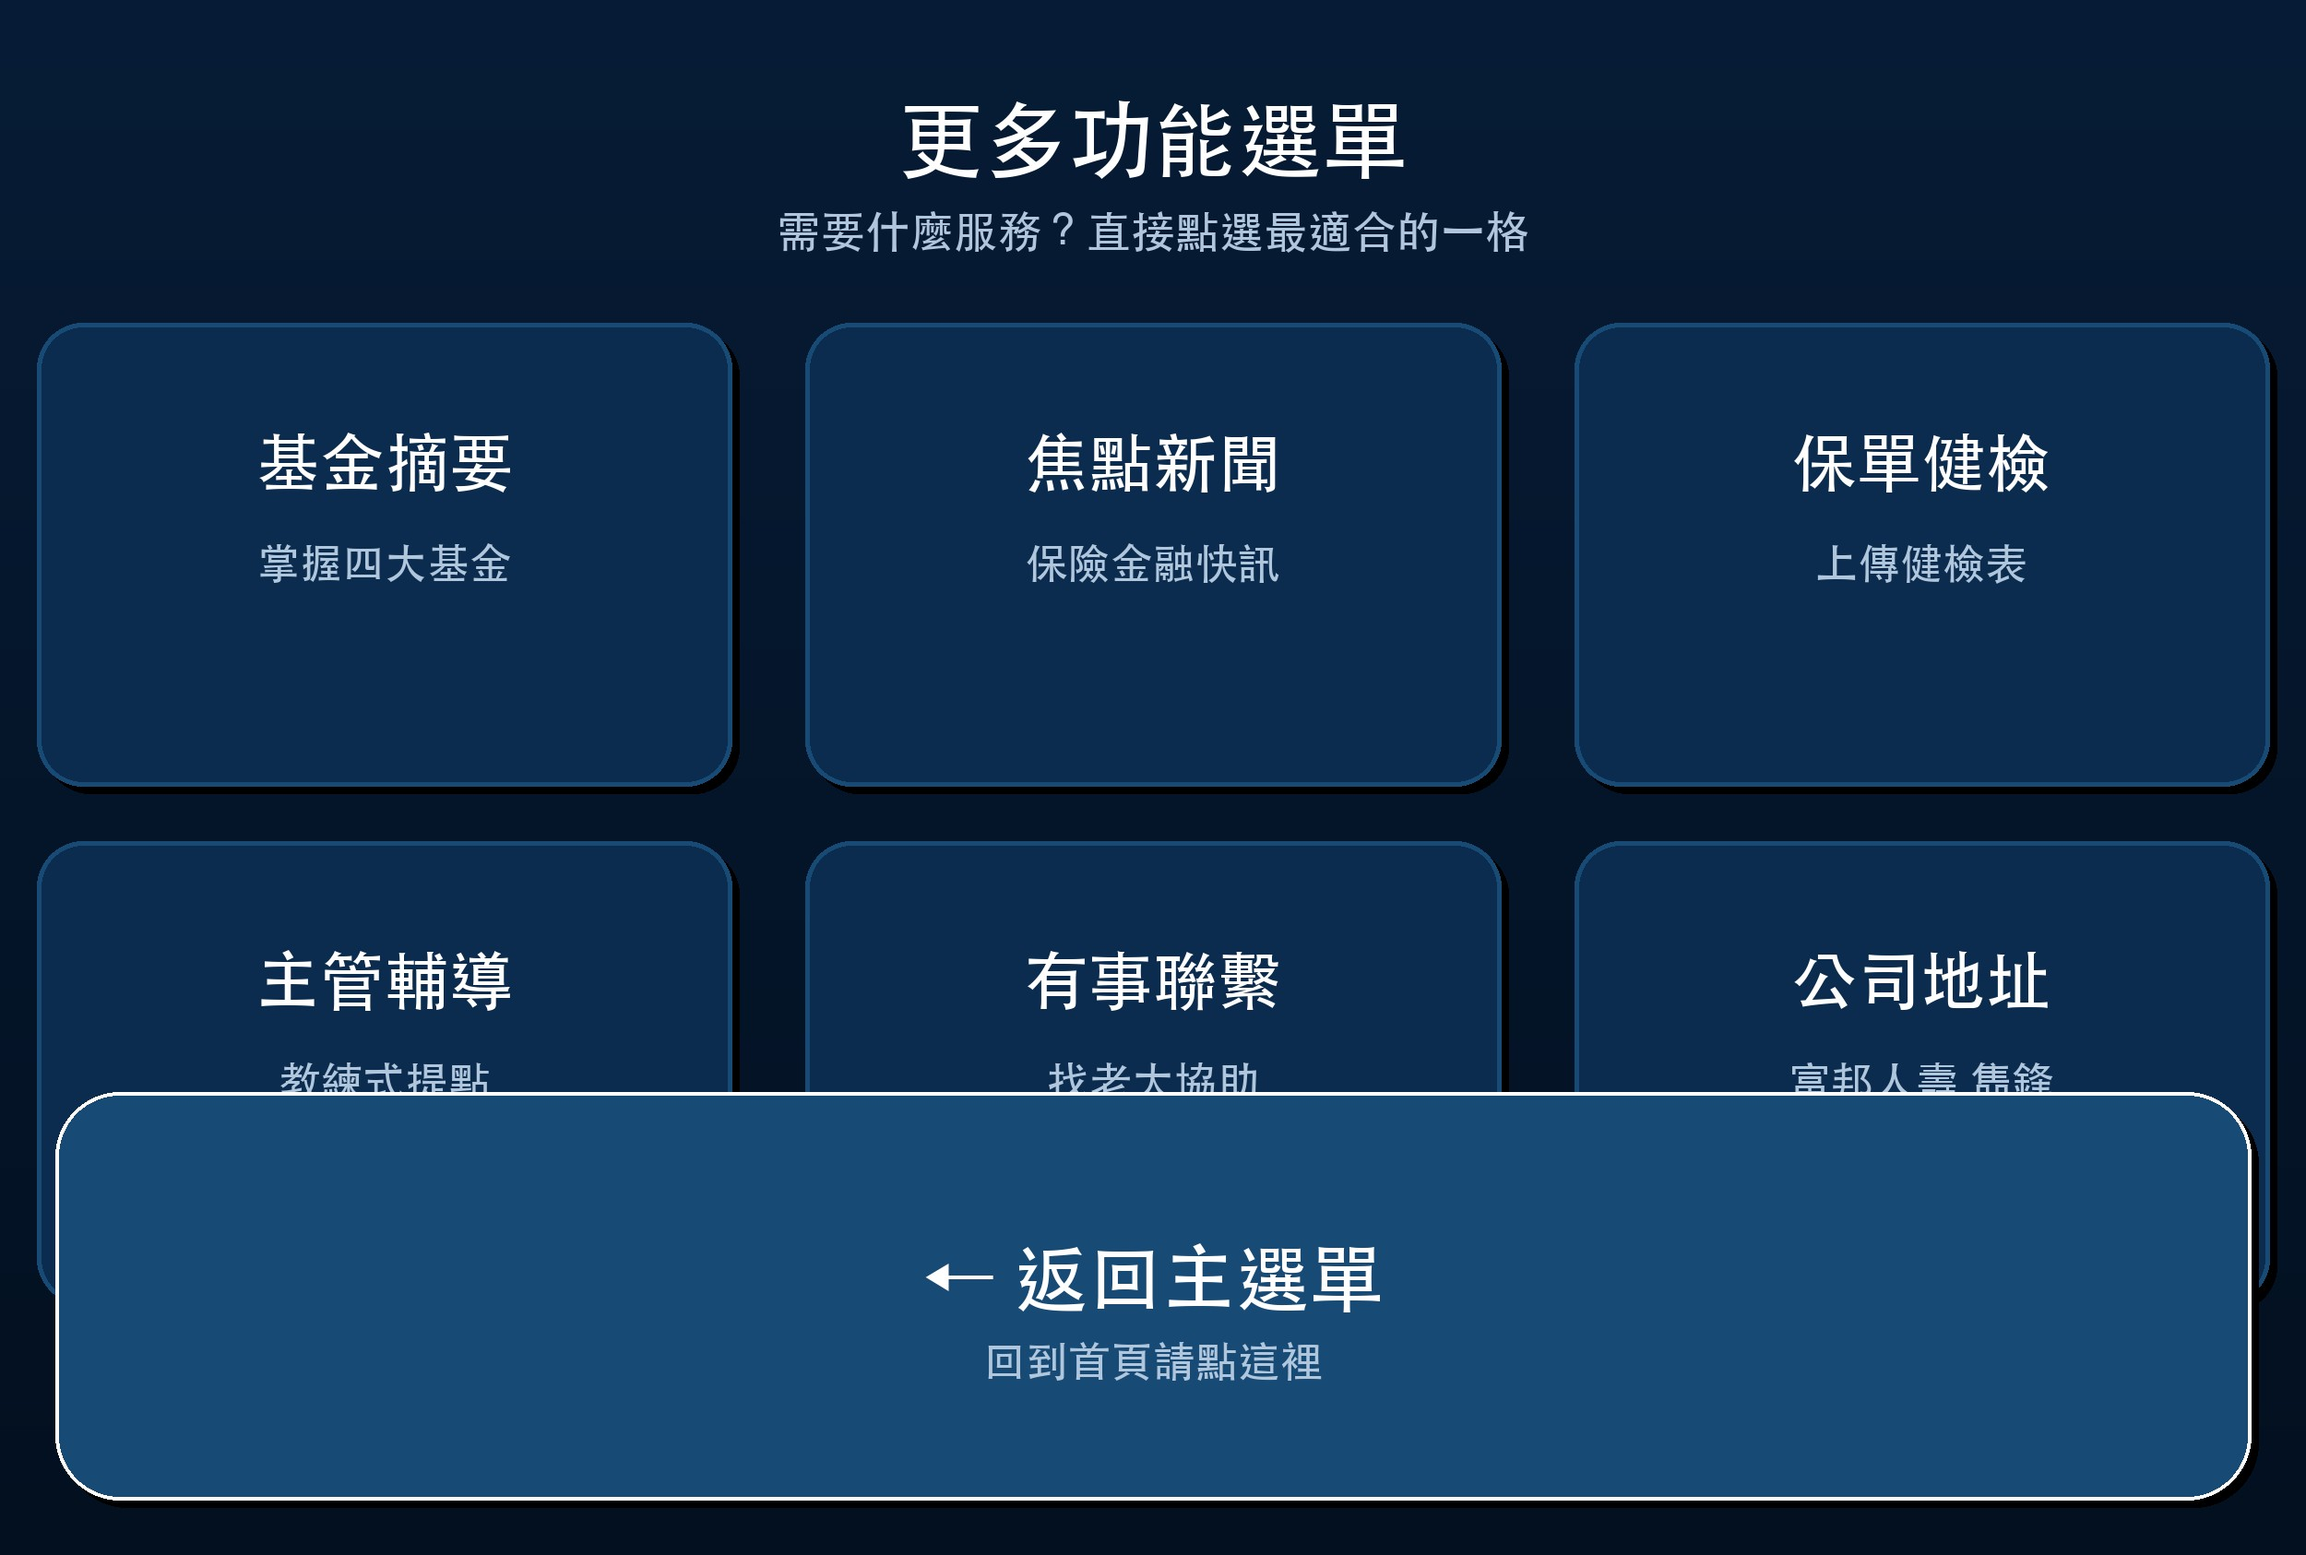
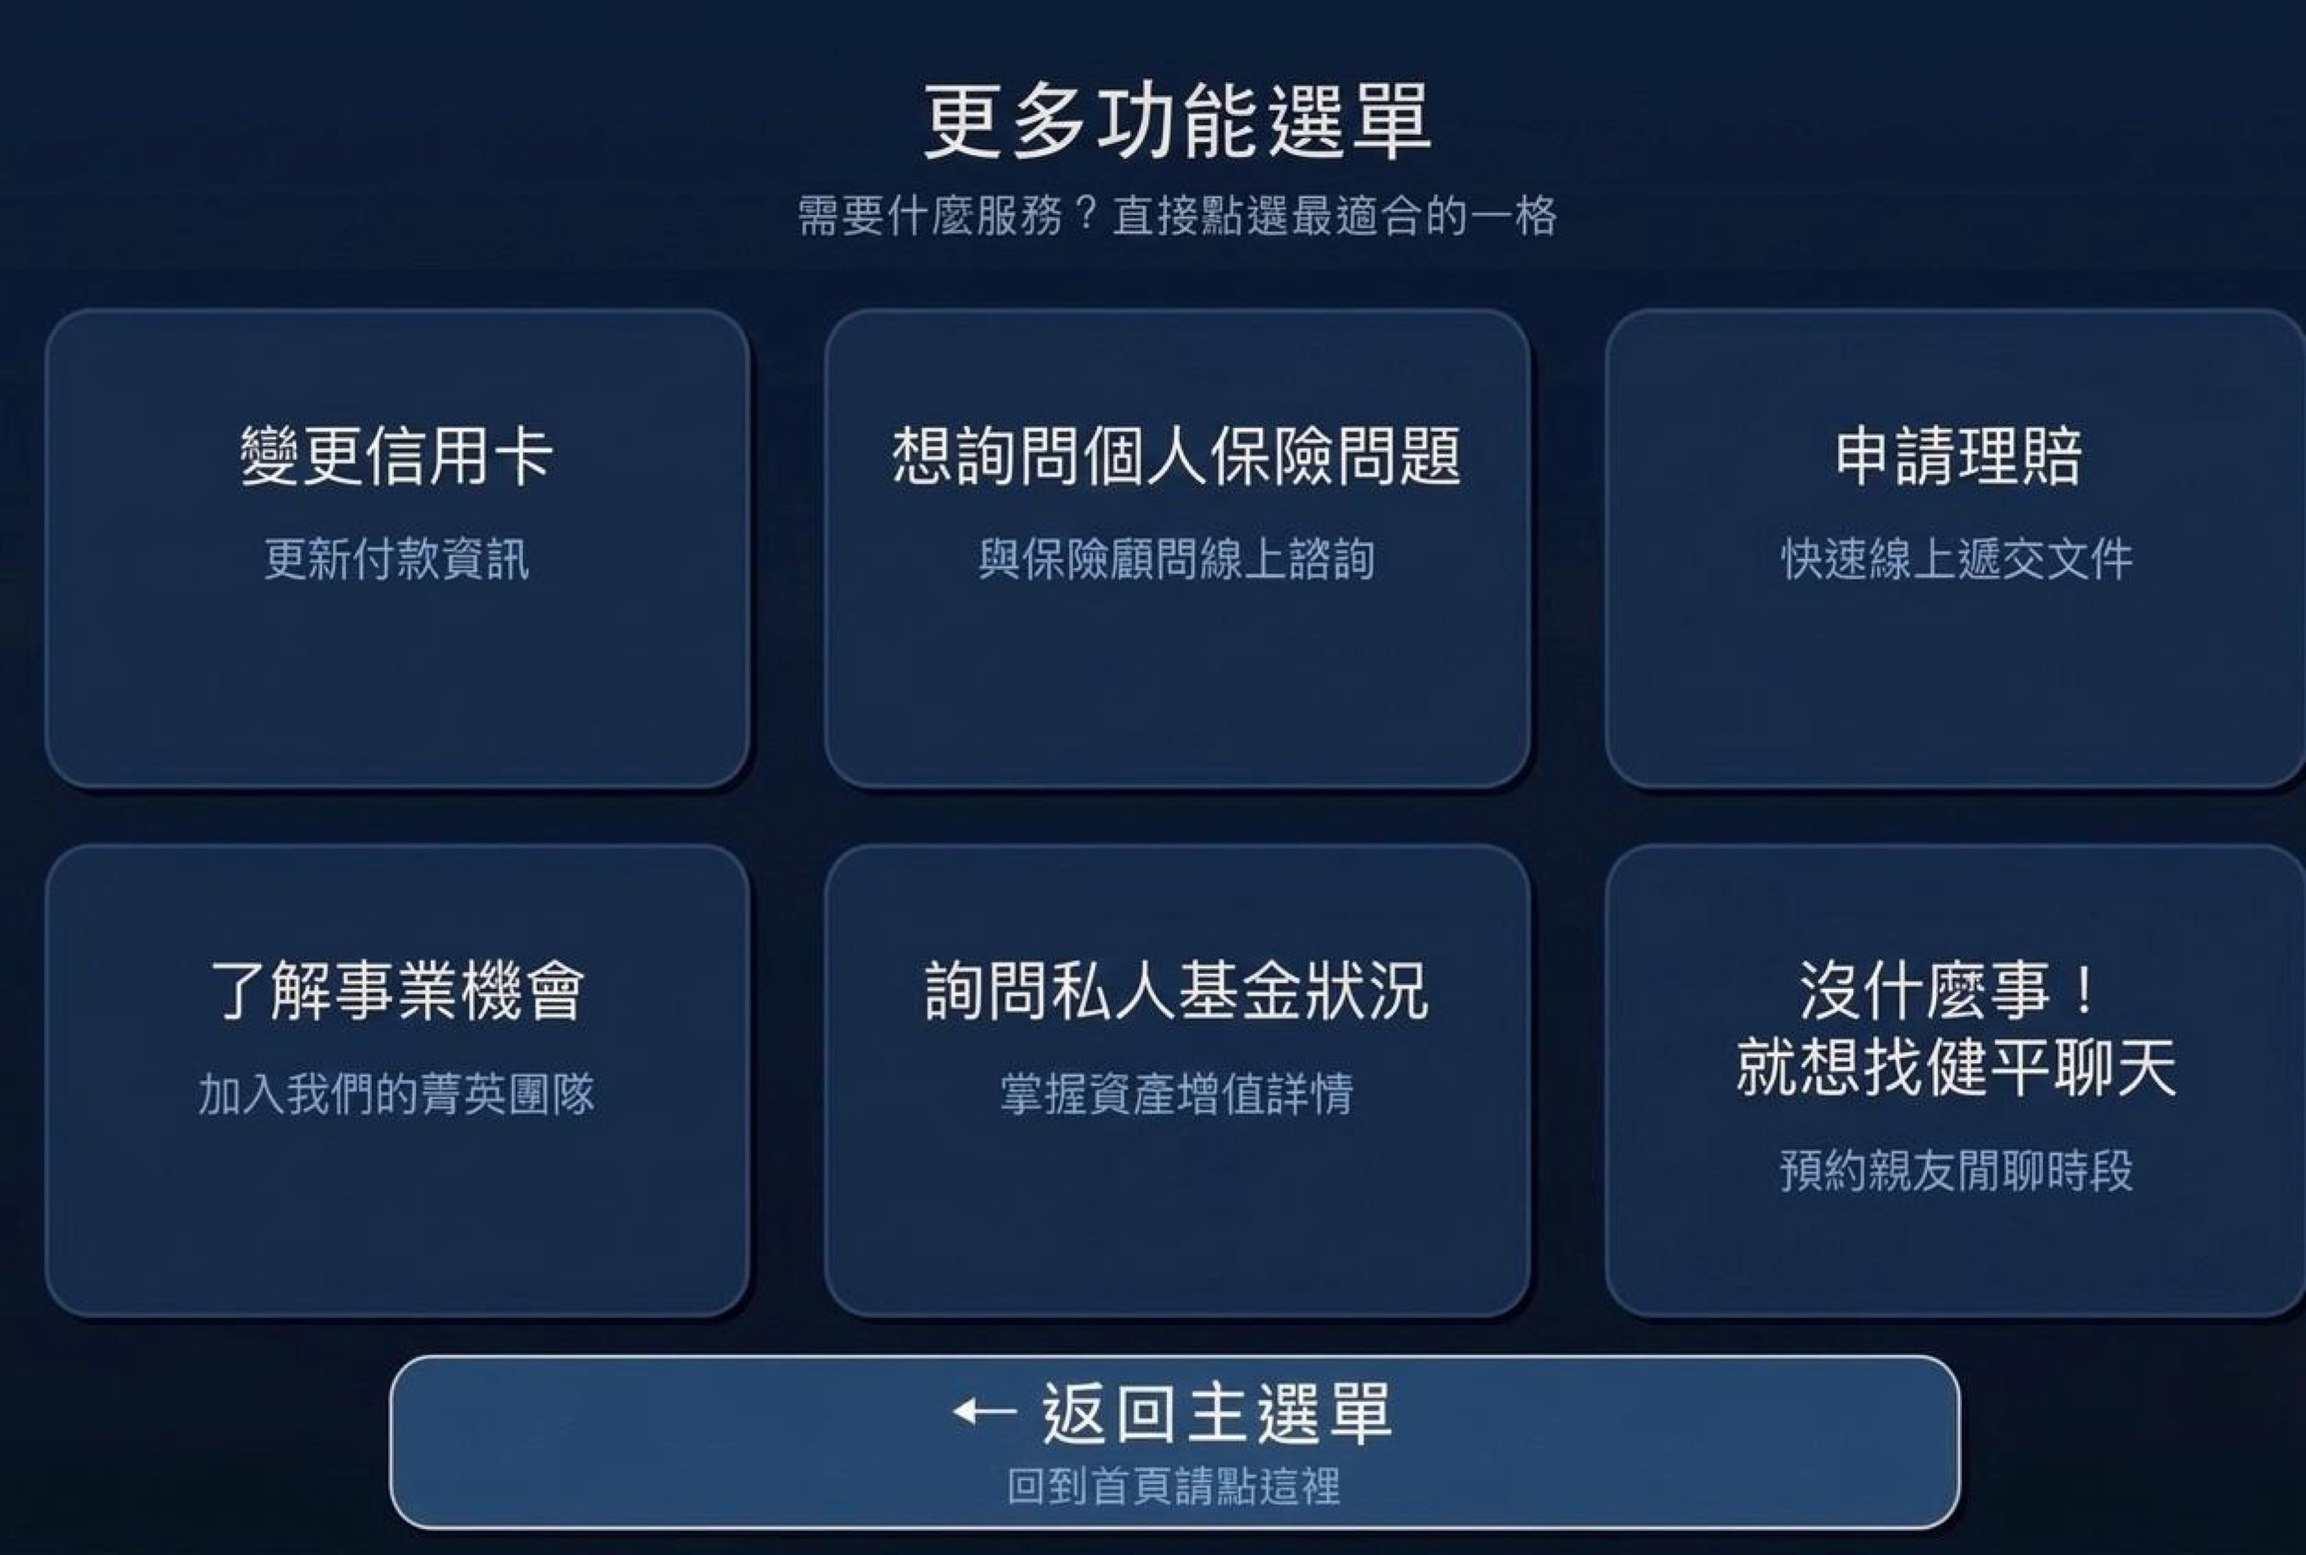
chore: refresh more rich menu artwork

diff --git a/app.js b/app.js
@@ -16,7 +16,7 @@ const config = {
 const app = express();
 const client = new line.Client(config);
 const MAIN_RICH_MENU_ID = process.env.RICH_MENU_MAIN_ID || 'richmenu-27b0820b3c86c962aafc61f45fe4e3e9';
-const MORE_RICH_MENU_ID = process.env.RICH_MENU_MORE_ID || 'richmenu-9de63e69c52548f1e0c49b1b4728b083';
+const MORE_RICH_MENU_ID = process.env.RICH_MENU_MORE_ID || 'richmenu-75f34cccdb6a9556f1cc52098845f3a3';
 const genAI = process.env.GEMINI_API_KEY ? new GoogleGenerativeAI(process.env.GEMINI_API_KEY) : null;
 const GEMINI_MODEL = process.env.GEMINI_MODEL || 'models/gemini-2.5-flash';
 const openaiClient = process.env.OPENAI_API_KEY

diff --git a/status/current_task.md b/status/current_task.md
@@ -3,8 +3,8 @@
 - **Task**: Rich Menu 更多功能按鈕測試
 - **Started**: 2026-03-08 17:05 (Asia/Taipei)
 - **Details**:
-  - 第一頁背景改為最新提供的圖片，建立 `richmenu-27b0820b3c86c962aafc61f45fe4e3e9` 並設為全體預設；程式常數更新完成。
-  - 第二頁背景含中文字，postback 指向 `richmenu-9de63…`。
-  - 接著要在真機上逐一測試「基金摘要/焦點新聞/保單健檢/主管輔導/有事聯繫/公司地址」對話內容是否正確。
-- **Next checkpoint**: 測完六個指令的回覆狀態並紀錄需調整的地方。
+  - 第一頁背景：`richmenu-27b0820b3c86c962aafc61f45fe4e3e9`（最新圖已套用）。
+  - 第二頁背景改為老大指定的新圖，建立 `richmenu-75f34cccdb6a9556f1cc52098845f3a3` 並更新常數；目前功能仍是舊的六項，稍後逐一調整。
+  - 下一步：設計對應的按鍵動作（變更信用卡、詢問保險問題…）。
+- **Next checkpoint**: 與老大確認每個按鍵要觸發的文字／流程，更新 `richmenu-more.json` 與 handler。
 - **Notes**: 09:00 推播維持停用（`digest_disabled.flag`）。
